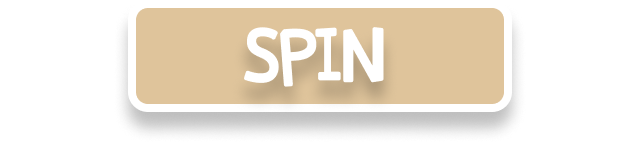
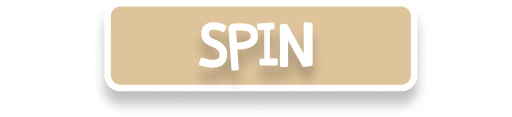
feat: wheel spin button

diff --git a/src/main/resources/styles/wheel.css b/src/main/resources/styles/wheel.css
@@ -1,0 +1,38 @@
+.collectNumber .text {
+    -fx-font-family: 'Poor Story';
+    -fx-font-size: 55px;
+    -fx-fill: #FFFFFF;
+    -fx-stroke: #FFFFFF;
+    -fx-stroke-width: 3.5px;
+    -fx-stroke-type: centered;
+    -fx-stroke-line-join: round;
+    -fx-stroke-line-cap: round;
+    -fx-effect: dropShadow(three-pass-box,rgba(0,0,0,0.4), 12, 0, 0, 6);
+}
+
+.timer .text {
+    -fx-font-family: 'Poor Story';
+    -fx-font-size: 50px;
+    -fx-fill: #FFFFFF;
+    -fx-stroke: #FFFFFF;
+    -fx-stroke-width: 2px;
+    -fx-stroke-type: centered;
+    -fx-stroke-line-join: round;
+    -fx-stroke-line-cap: round;
+    -fx-effect: dropShadow(three-pass-box,rgba(0,0,0,0.4), 12, 0, 0, 6);
+}
+
+.starCount .text {
+    -fx-font-family: 'Poor Story';
+    -fx-font-size: 38px;
+    -fx-fill: #FFFFFF;
+    -fx-stroke: #FFFFFF;
+    -fx-stroke-width: 1px;
+    -fx-stroke-type: centered;
+    -fx-stroke-line-join: round;
+    -fx-stroke-line-cap: round;
+}
+
+.wheel {
+    -fx-effect: dropShadow(three-pass-box,rgba(0,0,0,0.6), 30, 0, 0, 0);
+}

diff --git a/src/main/java/com/controllers/views/Wheel.java b/src/main/java/com/controllers/views/Wheel.java
@@ -1,5 +1,6 @@
 package com.controllers.views;
 
+import java.io.FileNotFoundException;
 import java.net.URL;
 import java.util.ResourceBundle;
 
@@ -31,9 +32,9 @@ public class Wheel extends ApplicationController implements Initializable {
     @FXML
     private Label starLabel;
     @FXML
-    private ImageView exitButton;
+    private ImageView backButton;
     @FXML
-    private ImageView spin;
+    private ImageView spinButton;
     @FXML
     private ImageView popup;
     @FXML
@@ -56,10 +57,10 @@ public class Wheel extends ApplicationController implements Initializable {
         reward = rewardStars[segment];
         System.out.println(reward);
 
-        PauseTransition wait = new PauseTransition(new Duration(500));
+        PauseTransition wait = new PauseTransition(new Duration(800));
         wait.setOnFinished(e -> {
             setPopupVisibility(true);
-            starNum.setText(Integer.toString(reward));
+            starNum.setText(Integer.toString(reward) + " stars");
             Sounds.playSoundEffect("reward");
         });
 
@@ -71,6 +72,7 @@ public class Wheel extends ApplicationController implements Initializable {
 
         MainApp.getGlobalTimer().restart();
         timer.start();
+        spinButton.setVisible(false);
         updateStarLabel();
 
         setPopupVisibility(false);
@@ -96,14 +98,14 @@ public class Wheel extends ApplicationController implements Initializable {
     protected void start() {
         setPopupVisibility(false);
 
-        timer = new WheelTimer(timerLabel);
+        timer = new WheelTimer(timerLabel, spinButton);
         timer.start();
         updateStarLabel();
 
         anim = new SpinningWheel(wheel).getAnimator();
         anim.setOnFinished(e -> giveReward());
 
-        wheel.addEventHandler(MouseEvent.MOUSE_CLICKED, event -> spin());
+        spinButton.addEventHandler(MouseEvent.MOUSE_CLICKED, event -> spin());
         collectButton.addEventHandler(MouseEvent.MOUSE_CLICKED, event -> collectReward());
     }
 
@@ -113,8 +115,8 @@ public class Wheel extends ApplicationController implements Initializable {
 
         currentUser = MainApp.getUser();
 
-        exitButton.addEventHandler(MouseEvent.MOUSE_CLICKED, e -> {
-            MainApp.setRoot(View.MENU);
+        backButton.addEventHandler(MouseEvent.MOUSE_CLICKED, e -> {
+            MainApp.setRoot(View.PROFILE);
             timer.stop();
         });
 

diff --git a/src/main/java/com/components/animations/WheelTimer.java b/src/main/java/com/components/animations/WheelTimer.java
@@ -1,18 +1,21 @@
 package com.components.animations;
-
 import com.MainApp;
+import com.controllers.ApplicationController;
 
 import javafx.animation.AnimationTimer;
 import javafx.scene.control.Label;
+import javafx.scene.image.ImageView;
 
-public class WheelTimer {
+public class WheelTimer extends ApplicationController {
 
     private Label timerLabel;
+    private ImageView spinButton;
     private int timeSeconds;
     private MyTimer timer;
     
-    public WheelTimer(Label timerLabel) {
+    public WheelTimer(Label timerLabel, ImageView spinButton) {
         this.timerLabel = timerLabel;
+        this.spinButton = spinButton;
         timeSeconds =  MainApp.getGlobalTimer().getDuration();
         timer = new MyTimer();
     }
@@ -27,7 +30,8 @@ public class WheelTimer {
 
     private void updateLabel(){
         if (timeSeconds <= 0){
-            timerLabel.setText("SPIN");
+            timerLabel.setText("");
+            spinButton.setVisible(true);
             return;
         }
 
